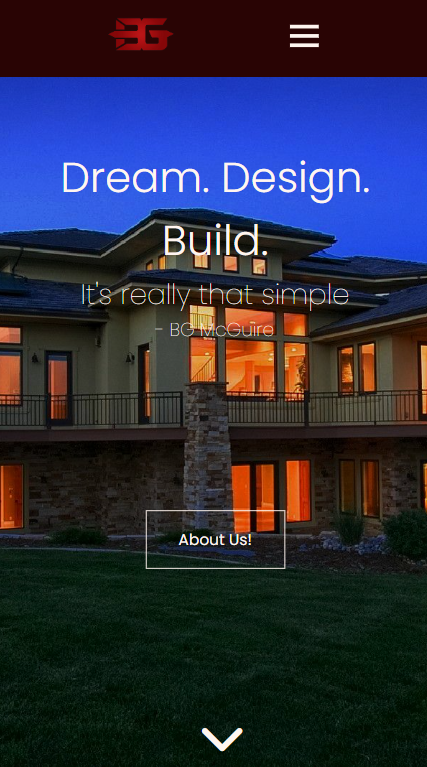
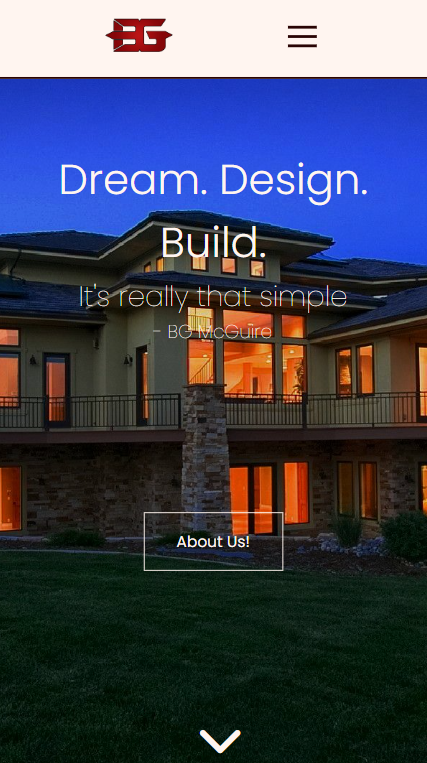
change nav color

diff --git a/css/about.css b/css/about.css
@@ -189,7 +189,7 @@ header img {
 .burger div {
     width: 25px;
     height: 3px;
-    background-color: #FFF5F0;
+    background-color: #290404;
     margin: 5px;
     transition: all 0.3s ease;
 }
@@ -259,8 +259,9 @@ header img {
     #navbar {
         position: fixed;
         z-index: 999;
-        background-color: #290404;
+        background-color: #FFF5F0;
         align-items: center;
+        border-bottom: 2px solid #290404;
     }
     #navbar img {
         margin: 0;
@@ -271,7 +272,7 @@ header img {
         height: 92vh;
         width: 50%;
         top: 70px;
-        background-color: #290404;
+        background-color: #FFF5F0;
         z-index: 999;
         transform: translateX(100%);
         transition: transform 0.5s ease-in;
@@ -281,7 +282,7 @@ header img {
         opacity: 0;
     }
     .nav-links a {
-        color: #FFF5F0;
+        color: #290404;
     }
     .nav-links ul {
         flex-direction: column;

diff --git a/css/styles.css b/css/styles.css
@@ -42,7 +42,7 @@ header img {
     justify-content: space-evenly;
 }
 .nav-links a {
-    color: #FFF5F0;
+    color: #290404;
     text-decoration: none;
 }
 .burger {
@@ -51,7 +51,7 @@ header img {
 .burger div {
     width: 25px;
     height: 3px;
-    background-color: #FFF5F0;
+    background-color: #290404;
     margin: 5px;
     transition: all 0.3s ease;
 }
@@ -249,8 +249,9 @@ header img {
     #navbar {
         position: fixed;
         z-index: 999;
-        background-color: #290404;
+        background-color: #FFF5F0;
         align-items: center;
+        border-bottom: 2px solid #290404;
     }
     #navbar img {
         margin: 0;
@@ -261,7 +262,7 @@ header img {
         height: 92vh;
         width: 50%;
         top: 70px;
-        background-color: #290404;
+        background-color: #FFF5F0;
         z-index: 999;
         transform: translateX(100%);
         transition: transform 0.5s ease-in;

diff --git a/css/contactStyles.css b/css/contactStyles.css
@@ -194,7 +194,7 @@ html {
 .burger div {
     width: 25px;
     height: 3px;
-    background-color: #FFF5F0;
+    background-color: #290404;
     margin: 5px;
     transition: all 0.3s ease;
 }
@@ -213,7 +213,7 @@ html {
     #navbar {
         position: fixed;
         z-index: 999;
-        background-color: #290404;
+        background-color: #FFF5F0;
         align-items: center;
     }
     #navbar img {
@@ -225,7 +225,7 @@ html {
         height: 92vh;
         width: 50%;
         top: 70px;
-        background-color: #290404;
+        background-color: #FFF5F0;
         z-index: 999;
         transform: translateX(100%);
         transition: transform 0.5s ease-in;
@@ -235,7 +235,7 @@ html {
         opacity: 0;
     }
     .nav-links a {
-        color: #FFF5F0;
+        color: #290404;
     }
     .nav-links ul {
         flex-direction: column;
